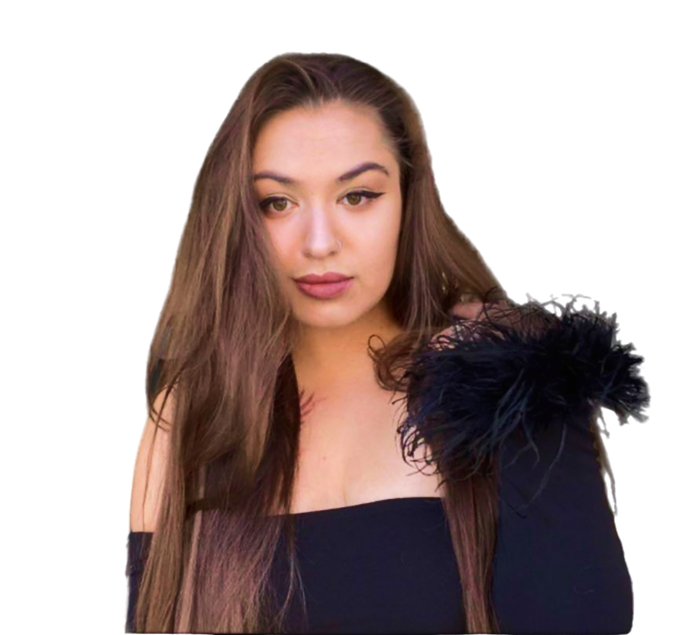
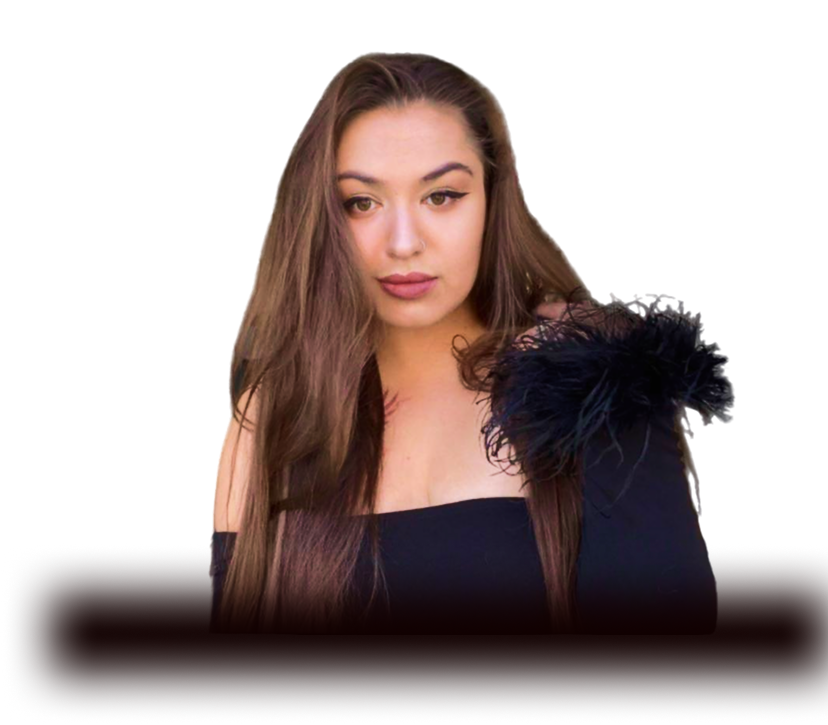
PC Ready

diff --git a/index.html b/index.html
@@ -5,7 +5,6 @@
     <meta charset="UTF-8">
     <meta name="viewport" content="width=device-width, initial-scale=1.0">
     <link rel="stylesheet" href="./css/swiper-bundle.min.css">
-    <link rel="stylesheet" href="./css/null.css">
     <link rel="stylesheet" href="./css/style.css">
     <title>Элеонора - маркетолог</title>
 </head>
@@ -13,26 +12,26 @@
 <body>
 
     <div class="wrapper">
-        <header class="header" id="header">
-            <div class="header__container">
-                <nav class="menu">
-                    <ul>
-                        <li><a data-scroll href="#header">Главная</a></li>
-                        <li><a data-scroll href="#about">Обо мне</a></li>
-                        <li><a data-scroll href="#project">Кейсы и отзывы</a></li>
-                        <li><a data-scroll href="#advantages">Преимущества</a></li>
-                        <li><a data-scroll href="#services">Услуги</a></li>
-                        <li><a data-scroll href="#contacts">Контакты</a></li>
-                    </ul>
-                    <div class="menu__burger">
-                        <span></span>
-                        <span></span>
-                        <span></span>
-                    </div>
-                </nav>
-            </div>
-        </header>
-        <main class="main">
+        <div class="firstScreen">
+            <header class="header" id="header">
+                <div class="header__container">
+                    <nav class="menu">
+                        <ul>
+                            <li><a data-scroll href="#header">Главная</a></li>
+                            <li><a data-scroll href="#about">Обо мне</a></li>
+                            <li><a data-scroll href="#project">Кейсы и отзывы</a></li>
+                            <li><a data-scroll href="#advantages">Преимущества</a></li>
+                            <li><a data-scroll href="#services">Услуги</a></li>
+                            <li><a data-scroll href="#contacts">Контакты</a></li>
+                        </ul>
+                        <div class="menu__burger">
+                            <span></span>
+                            <span></span>
+                            <span></span>
+                        </div>
+                    </nav>
+                </div>
+            </header>
             <section class="home">
                 <div class="home__container">
                     <div class="home__utp">
@@ -76,12 +75,14 @@
                                 <button data-scroll="#services" class="btn">Перейти к услугам</button>
                             </div>
                         </div>
-                        <!-- <div class="home__left">
+                        <div class="home__left">
                             <img src="./img/generalPhoto.png" alt="">
-                        </div> -->
+                        </div>
                     </div>
                 </div>
             </section>
+        </div>
+        <main class="main">
             <section class="about" id="about">
                 <div class="about__container">
                     <h2>Обо мне</h2>

diff --git a/scss/blocks/_home.scss b/scss/blocks/_home.scss
@@ -31,18 +31,21 @@
     &__wrap {
         display: flex;
         justify-content: space-between;
+        position: relative;
     }
     &__left {
-        width: 744px;
+        width: 49vw;
+        max-width: 744px;
         position: absolute;
-        top: 10px;
-        right: 200px;
-        height: 675px;
+        bottom: 0;
+        right: 0;
+        height: 47vw;
+        max-height: 675px;
         &::after {
             content: "";
             display: block;
             position: absolute;
-            height: 50%;
+            height: 40%;
             width: 70%;
             top: 0;
             left: 0;
@@ -53,19 +56,21 @@
             position: absolute;
             z-index: 3;
             object-fit: cover;
-        }
-        &::before {
-            content: "";
-            position: absolute;
-            z-index: 4;
-            display: block;
-            bottom: 0;
-            left: 0;
             width: 100%;
-            height: 82px;
-            background: #100;
-            filter: blur(20px);
+            height: 100%;
         }
+        // &::before {
+        //     content: "";
+        //     position: absolute;
+        //     z-index: 4;
+        //     display: block;
+        //     bottom: 0;
+        //     left: 0;
+        //     width: 100%;
+        //     height: 82px;
+        //     background: #100;
+        //     filter: blur(20px);
+        // }
     }
     &__right {
         display: flex;

diff --git a/css/style.css b/css/style.css
@@ -93,6 +93,10 @@ section {
   padding: 50px 0;
 }
 
+.firstScreen {
+  position: relative;
+}
+
 .wrapper {
   min-height: 100%;
   overflow: hidden;
@@ -149,6 +153,7 @@ main {
 }
 .menu ul {
   display: flex;
+  justify-content: center;
   gap: 33px;
 }
 .menu ul li a {
@@ -243,19 +248,22 @@ main {
 .home__wrap {
   display: flex;
   justify-content: space-between;
+  position: relative;
 }
 .home__left {
-  width: 744px;
+  width: 49vw;
+  max-width: 744px;
   position: absolute;
-  top: 10px;
-  right: 200px;
-  height: 675px;
+  bottom: 0;
+  right: 0;
+  height: 47vw;
+  max-height: 675px;
 }
 .home__left::after {
   content: "";
   display: block;
   position: absolute;
-  height: 50%;
+  height: 40%;
   width: 70%;
   top: 0;
   left: 0;
@@ -267,18 +275,8 @@ main {
   z-index: 3;
   -o-object-fit: cover;
      object-fit: cover;
-}
-.home__left::before {
-  content: "";
-  position: absolute;
-  z-index: 4;
-  display: block;
-  bottom: 0;
-  left: 0;
   width: 100%;
-  height: 82px;
-  background: #100;
-  filter: blur(20px);
+  height: 100%;
 }
 .home__right {
   display: flex;

diff --git a/scss/blocks/_menu.scss b/scss/blocks/_menu.scss
@@ -4,6 +4,7 @@
     width: 100%;
     ul {
         display: flex;
+        justify-content: center;
         gap: 33px;
         li {
             a {

diff --git a/scss/global/_null.scss b/scss/global/_null.scss
@@ -88,3 +88,7 @@ h6 {
 section {
 	padding: 50px 0;
 }
+
+.firstScreen {
+	position: relative;
+}
